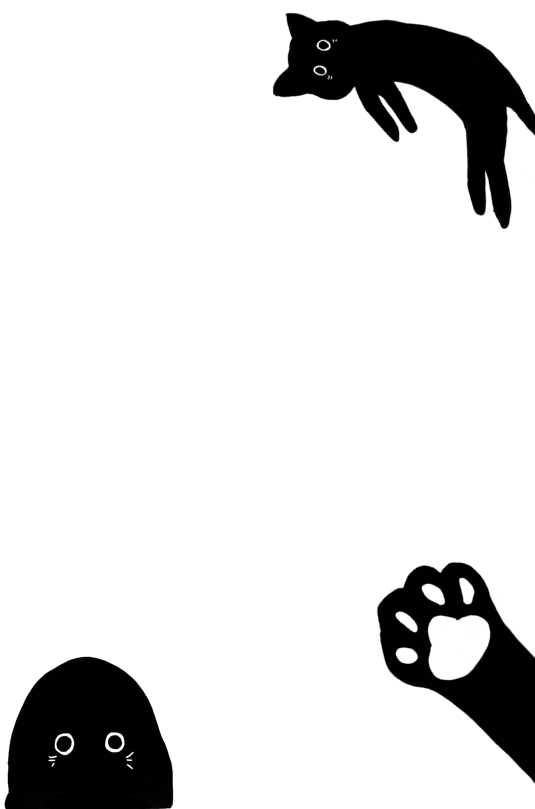
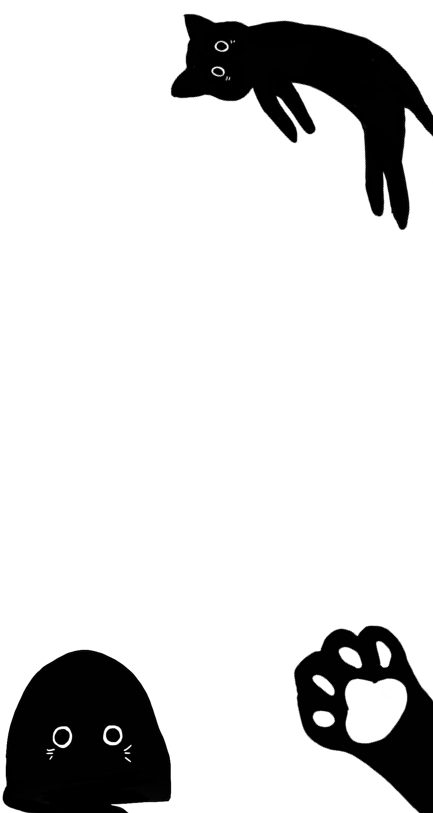
style fix

diff --git a/src/index.css b/src/index.css
@@ -12,7 +12,7 @@ body {
   font-family: 'Gloria Hallelujah', cursive;
   background-image: url('../public/images/kittens.png');
   background-repeat: no-repeat;
-  background-size: cover;
+  background-size: contain;
   color: #000;
   margin: 0;
   padding: 0;
